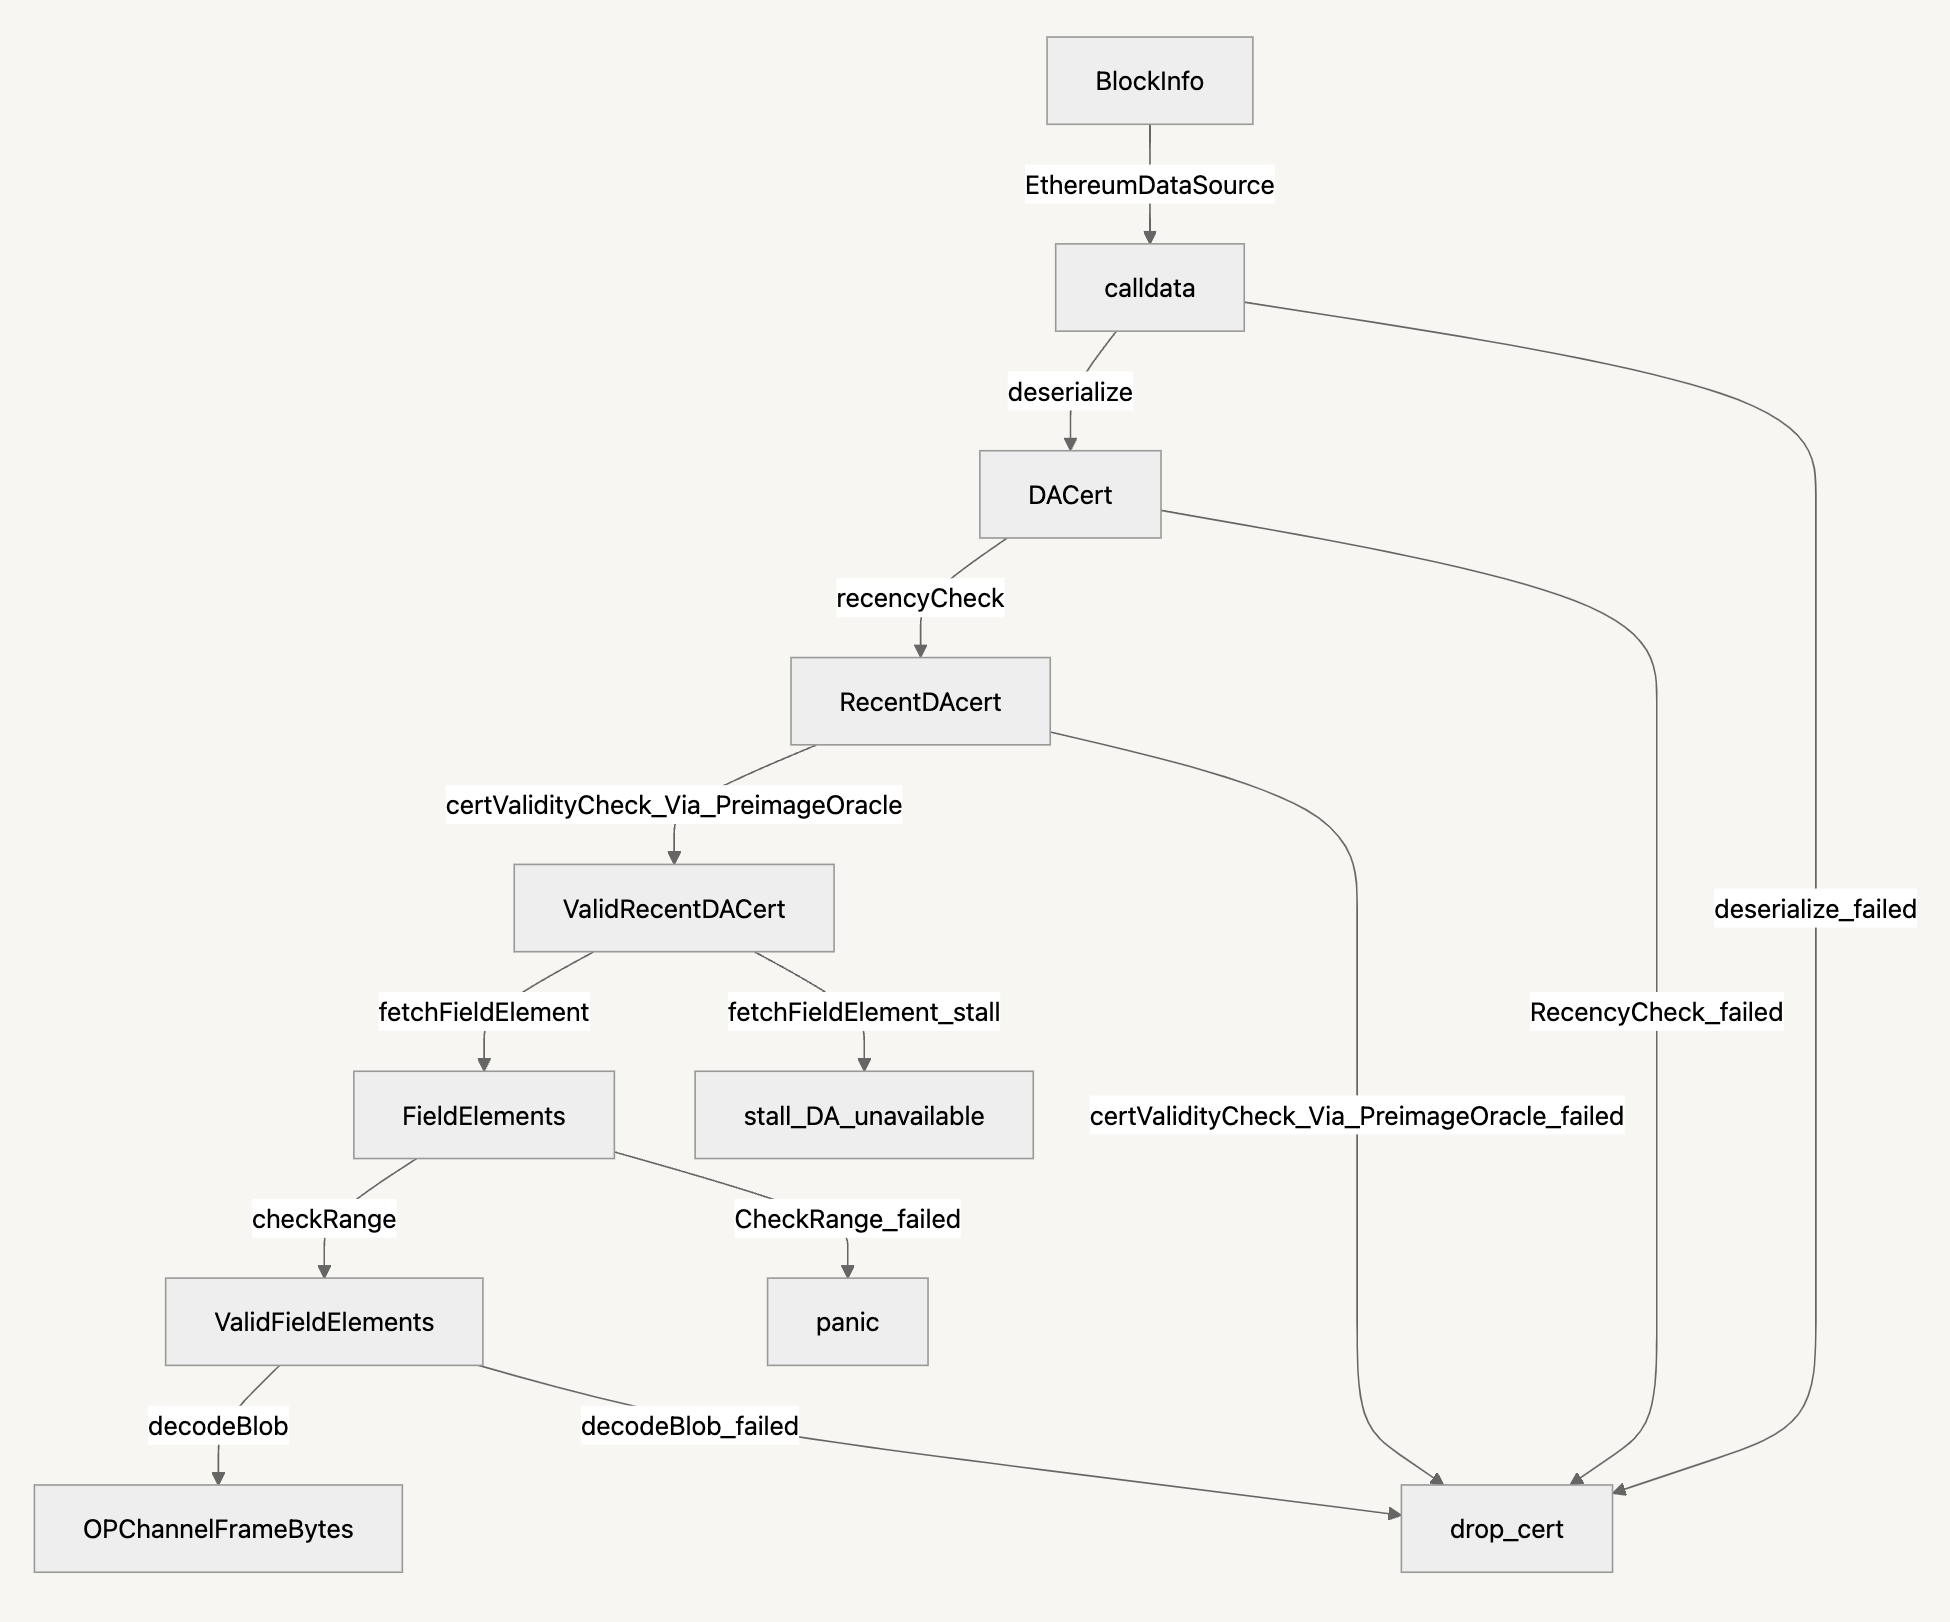
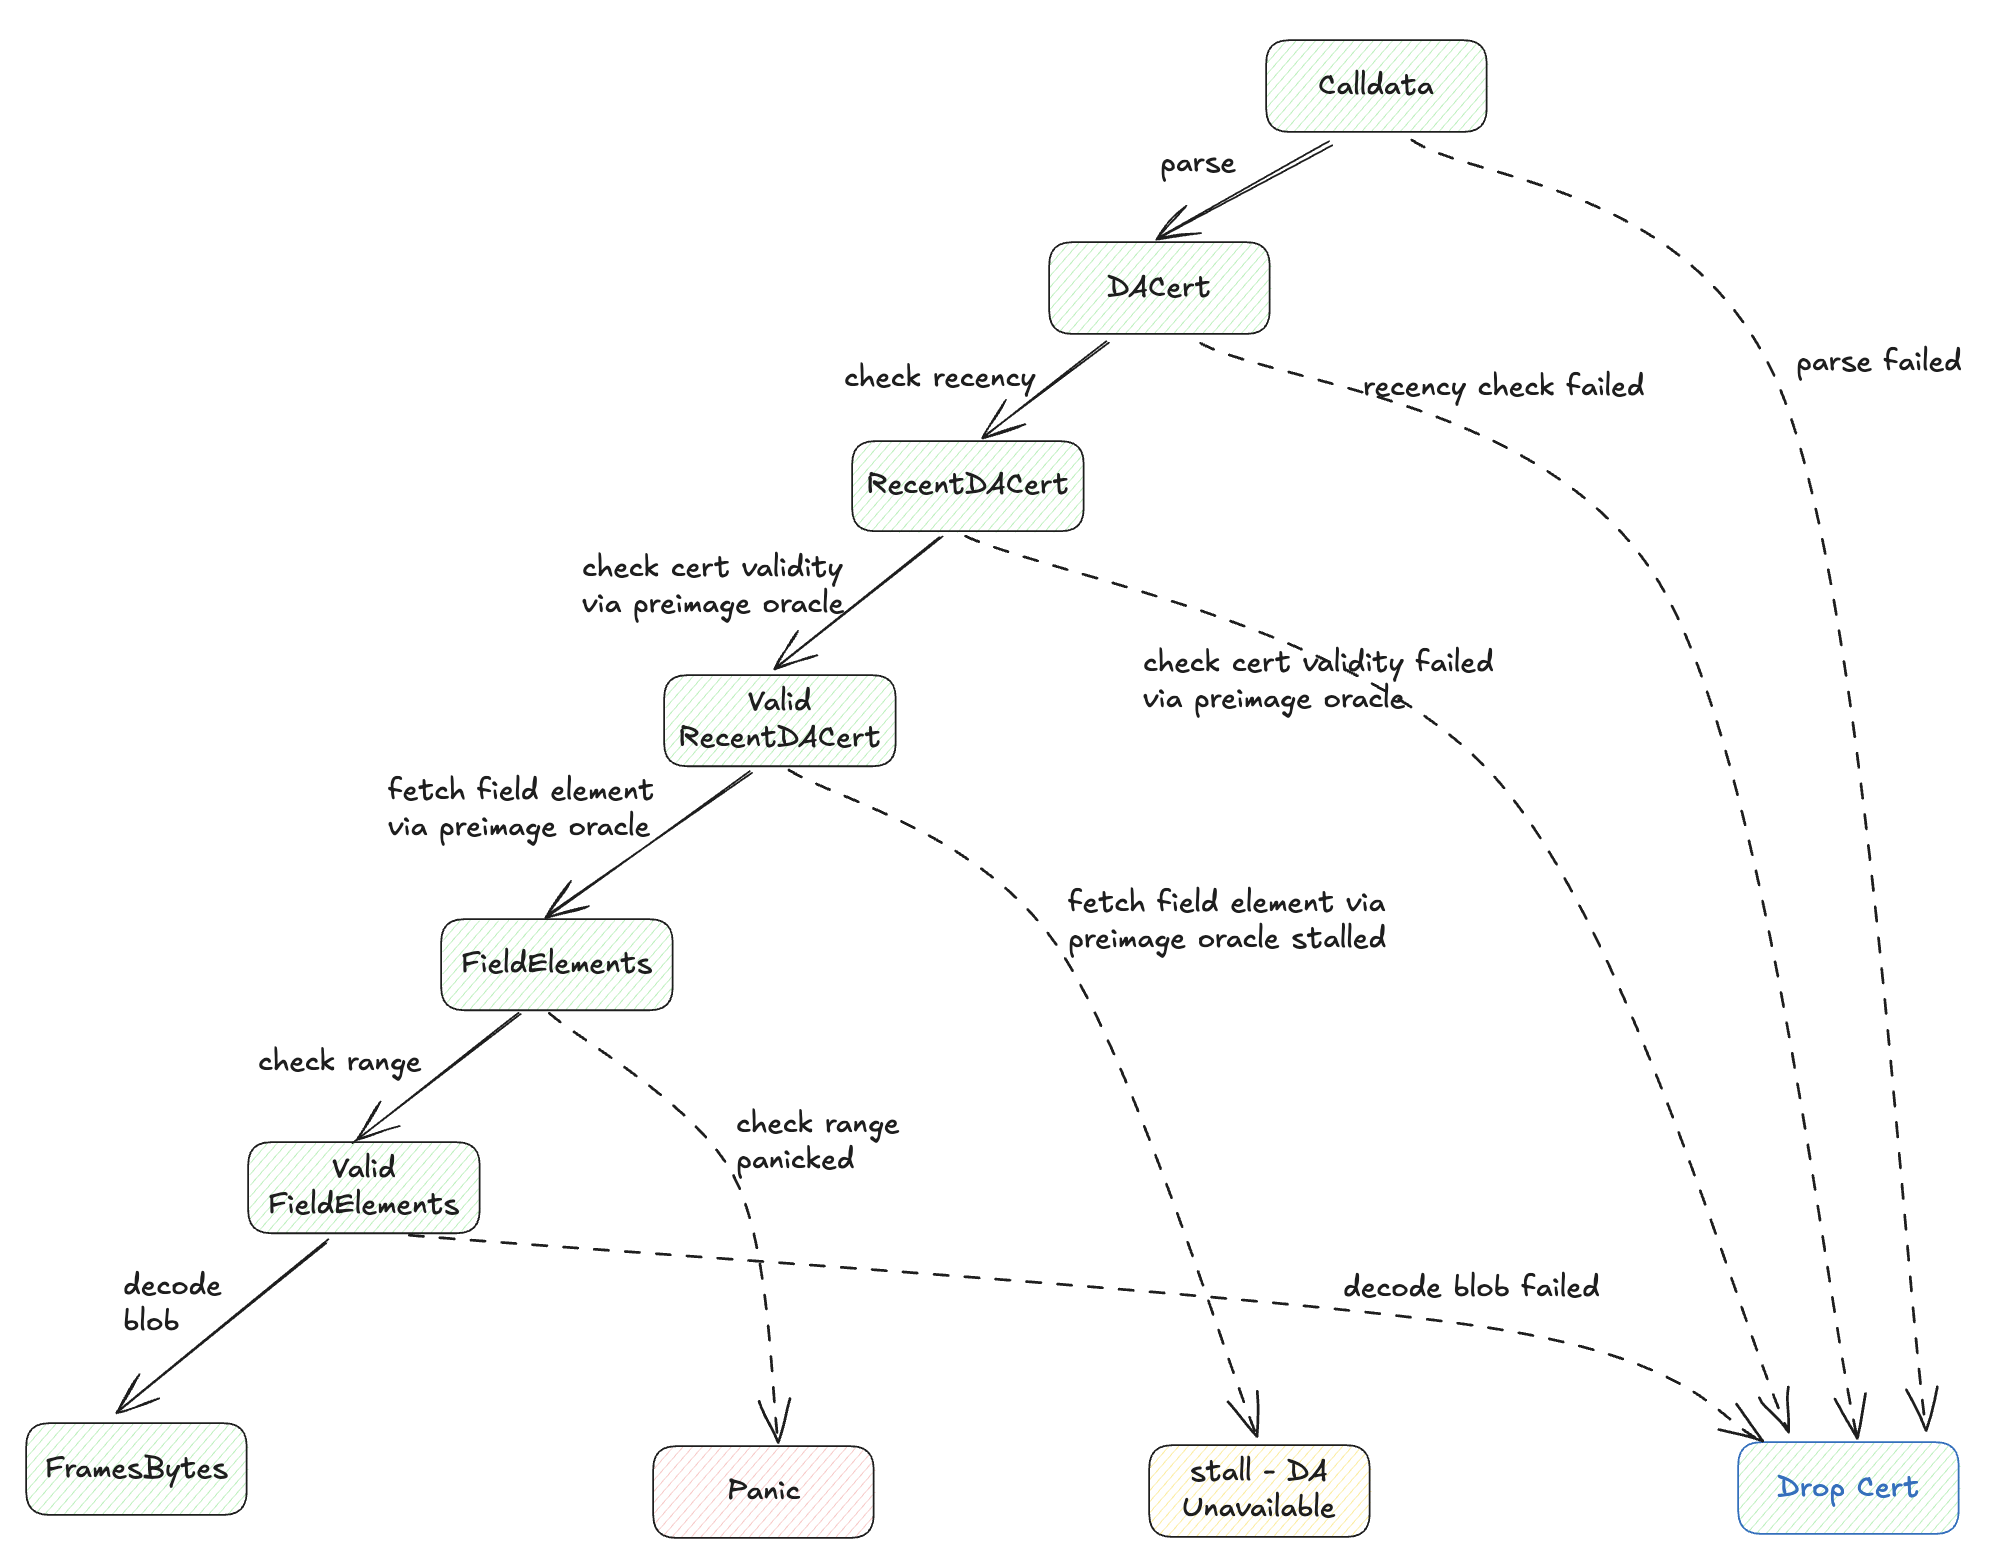
improve readme based on feedback

diff --git a/docs/README.md b/docs/README.md
@@ -36,28 +36,46 @@ On the op-node side where the hokulea derivation pipeline is ran, the `block_inf
 DA certificate.
 Then DA certificate is passed to `EigenDABlobProvider` into bytes representing `channel frames`.
 
+Here is a high level diagram that illustrates what hokulea looks like from inside, and where hokulea derivation pipeline lives inside the kona-deriviation.
+![](../assets/hokulea-in-kona-derivation-pipeline.png)
+
+Begin with `Calldata` passed down from `EthereumDataSource`, there are multiple stages inside hokulea each representing a result of a valid transformation.
+
+- `DA cert` is a parsed data structure from the callldata
+- `Recent DA cert` is a DA cert that passes the recency checks defined in the protocol [spec](https://github.com/Layr-Labs/eigenda/blob/master/docs/spec/src/integration/spec/6-secure-integration.md#1-rbn-recency-validation)
+- `Valid Recent DA cert` is `Recent DA cert` that is also valid with respect to the quorum attestation constraint more in [spec](https://github.com/Layr-Labs/eigenda/blob/master/docs/spec/src/integration/spec/6-secure-integration.md#2-cert-validation)
+- `Field Elements` are part of an EigenDA blob consisted of 32 bytes data unit
+- `Valid Field Elements` are `Field Elements` whose every 32 bytes is also a valid number within the bn254 field modulo
+- `FramesBytes` are the decoding result based on all `Valid Field Elements`
+
 ## Deriving OP channel frames from DA cert
 
-Here is the high level diagram that illustrates the data transformation from calldata downloaded from Ethereum to bytes of decoded OP channel frames.
+Here is a closer look at the state transition diagram that illustrates the transformation from calldata downloaded from `Calldata` to `FramesBytes`.
+![](../assets/hokulea-derivation.png)
 
 There are four end states for a bytes array corresponding to a DA cert
 - dropped
-- stall
+- stalled
 - panic
-- desired output bytes
+- FramesBytes (desired output bytes)
 
-If a condition (arrow) is suffixed with `failed`, it indicates that the sender of the data (from op-batcher) failed to hold criteria protected by the Hokulea derivation
-pipeline when bytes of DA cert arrived on L1, and therefore the corresponding cert is safe to drop.
+We will go through the state transition one by one. If a condition (arrow) is marked as `failed`, the source of data failed to hold criteria protected by the hokulea derivation, and therefore the corresponding DA certificate must be discarded. There are two possible actor that leads to `failed DA certificate`: op-batcher and a hosting
+process that provides preimage to the hokulea derivation pipeline. Additional check are required to ensure data source are valid. Such as KZG commitment verification
+and DA certificate verification like [Canoe](../canoe/). We now go over the failure case one by one
 
-If a condition is suffixed with stall, it means the data is unavailable by the host process connected by the hokulea client which runs the derivation pipeline
+- `parse failed` : op-batcher failed to submit a valid DA certificate to rollup inbox
+- `recency check failed` : op-batcher failed to submit a DA certificate to rollup inbox **on time**
+- `check cert valiidty failed` : op-batcher failed to submit a valid DA certificate that satisfies the [quorum attestaion constraint](https://github.com/Layr-Labs/eigenda/blob/master/docs/spec/src/integration/spec/6-secure-integration.md#2-cert-validation) **OR** the host is misbehaving if the DA certifiate is indeed valid
+- `decode blob failed` : it means the host (the eigenda blob preimage provider) has failed to provide an eigenda blob (made of field elements) that satisfies the decoding algorithm see [spec](https://github.com/Layr-Labs/eigenda/blob/master/docs/spec/src/integration/spec/3-datastructs.md#data-structs), it can happen for two possible reasons.
+  - the sender (op-batcher) intentionally constructed a malformed eigenda blob by corrupting the encoding algorithm
+  - the hosting part that provides the preimage (eigenda blob) transmitted incorrect data
+
+If a condition is marked with stall, it means the data is unavailable in the hosting process that retrieve data on behalf of derivation pipeline.
 
 If a condition is marked as panic, it means the host that supplies the field element violates the clear EigenDA protocol property, i.e. every 32 bytes is a proper
-bn254 field element.
+bn254 field element, and by cryptographic property, there isn't a valid kzg commitment.
 
-If nothing went wrong, the hokulea derivation pipeline returns the desired output.
+Finally, if nothing went wrong, the hokulea derivation pipeline returns the desired output.
 
-
-
-![](../assets/hokulea-derivation.png)
 
 
